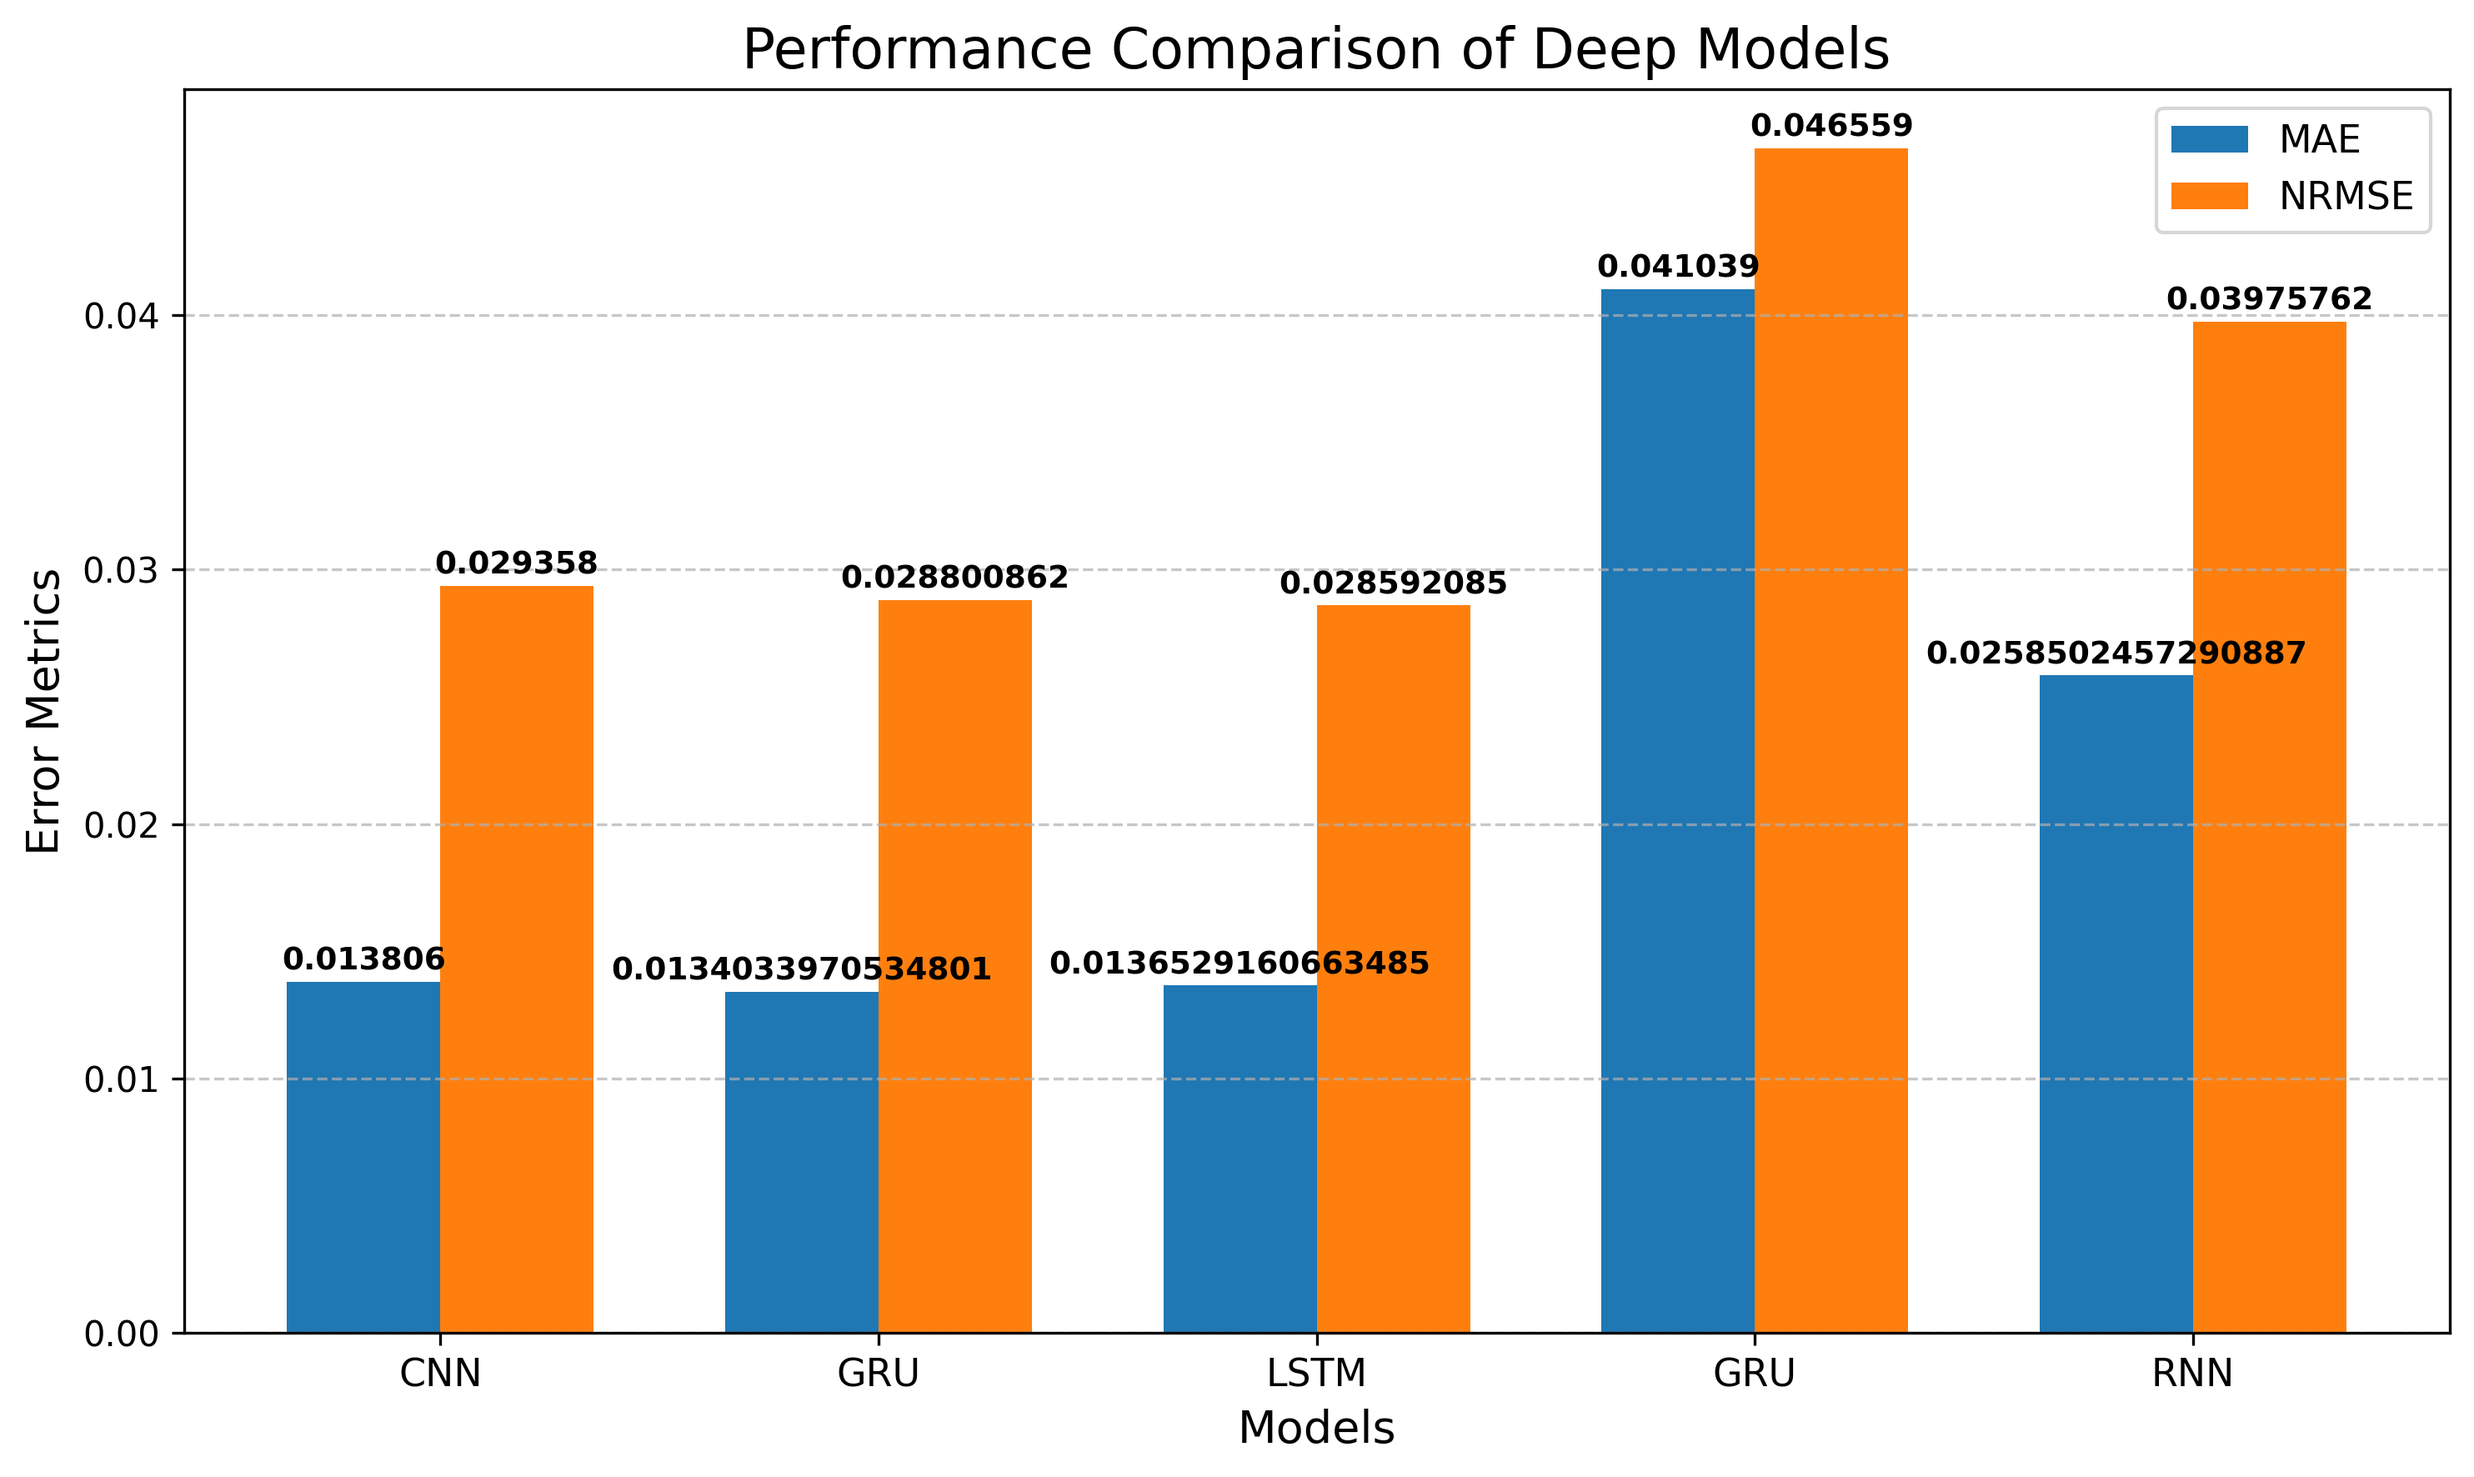
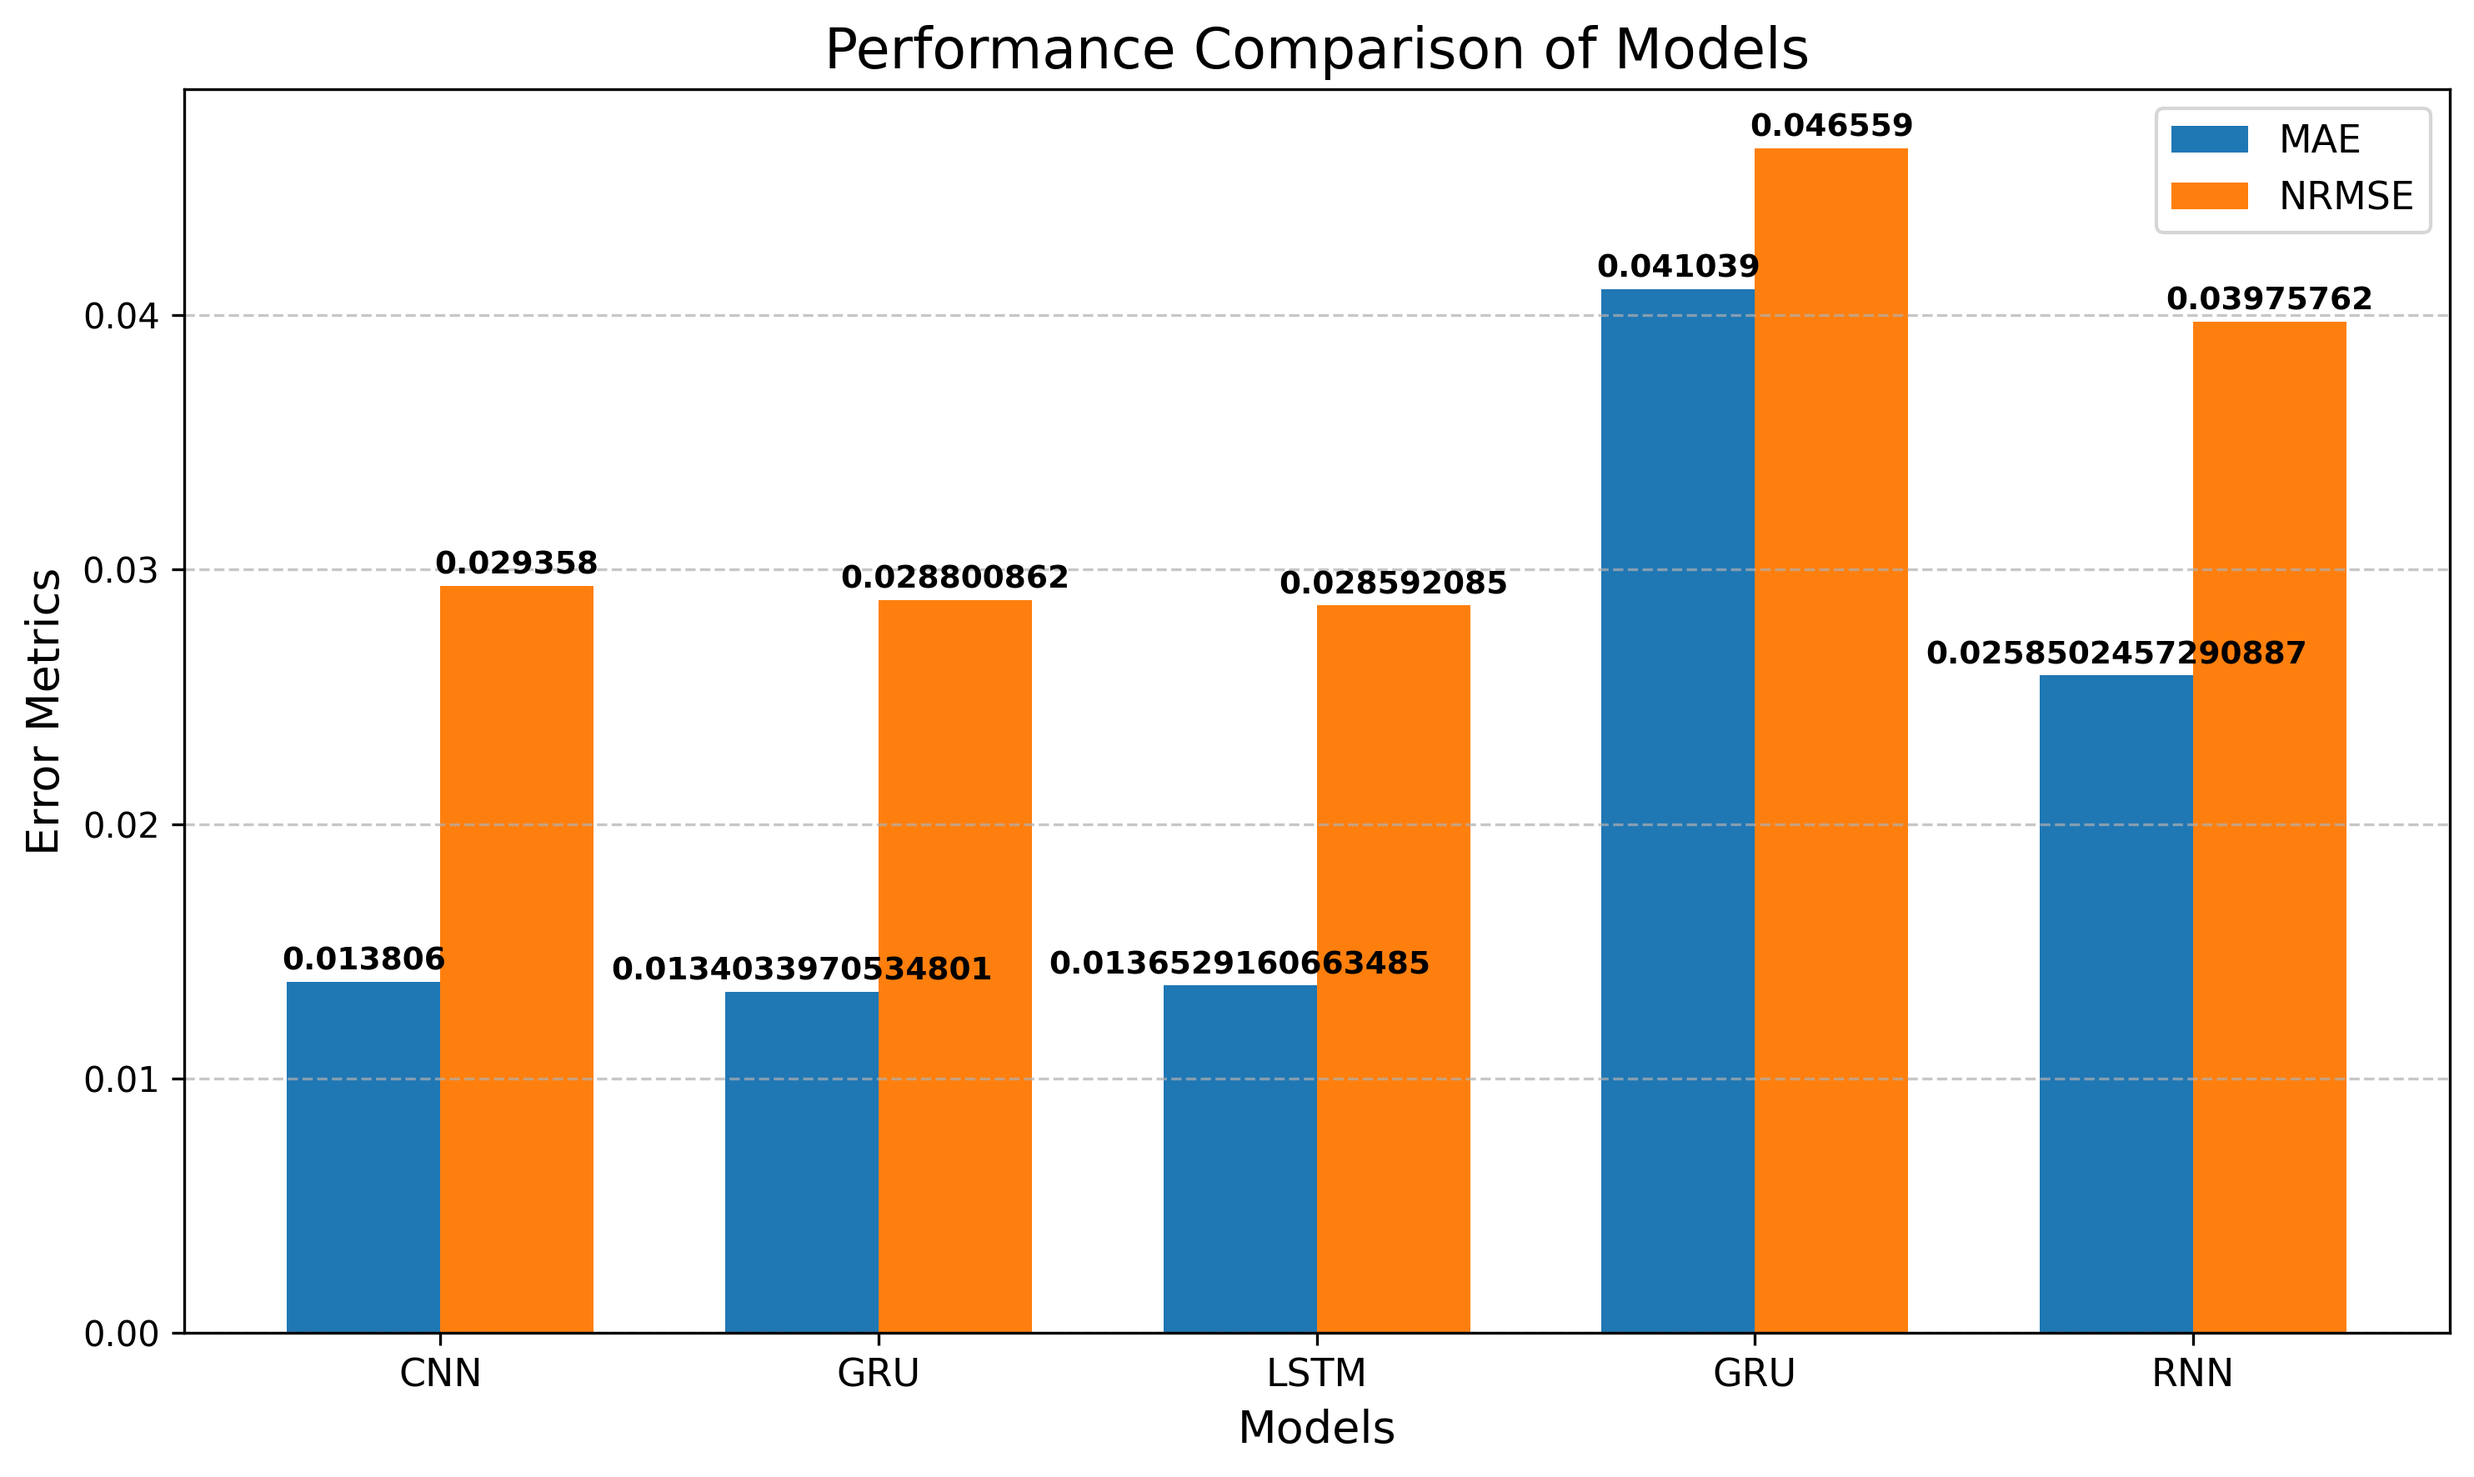
update

Changed region(s): [[0.31, 0.0, 0.7749, 0.0621]]

diff --git a/comparison_files/compare_models.py b/comparison_files/compare_models.py
@@ -78,7 +78,7 @@ for bar in bars2:
 # Labels and title
 plt.xlabel("Models", fontsize=13)
 plt.ylabel("Error Metrics", fontsize=13)
-plt.title("Performance Comparison of Deep Models", fontsize=16)
+plt.title("Performance Comparison of Models", fontsize=16)
 
 # X-axis labels
 plt.xticks(x, model_names, fontsize=11)
